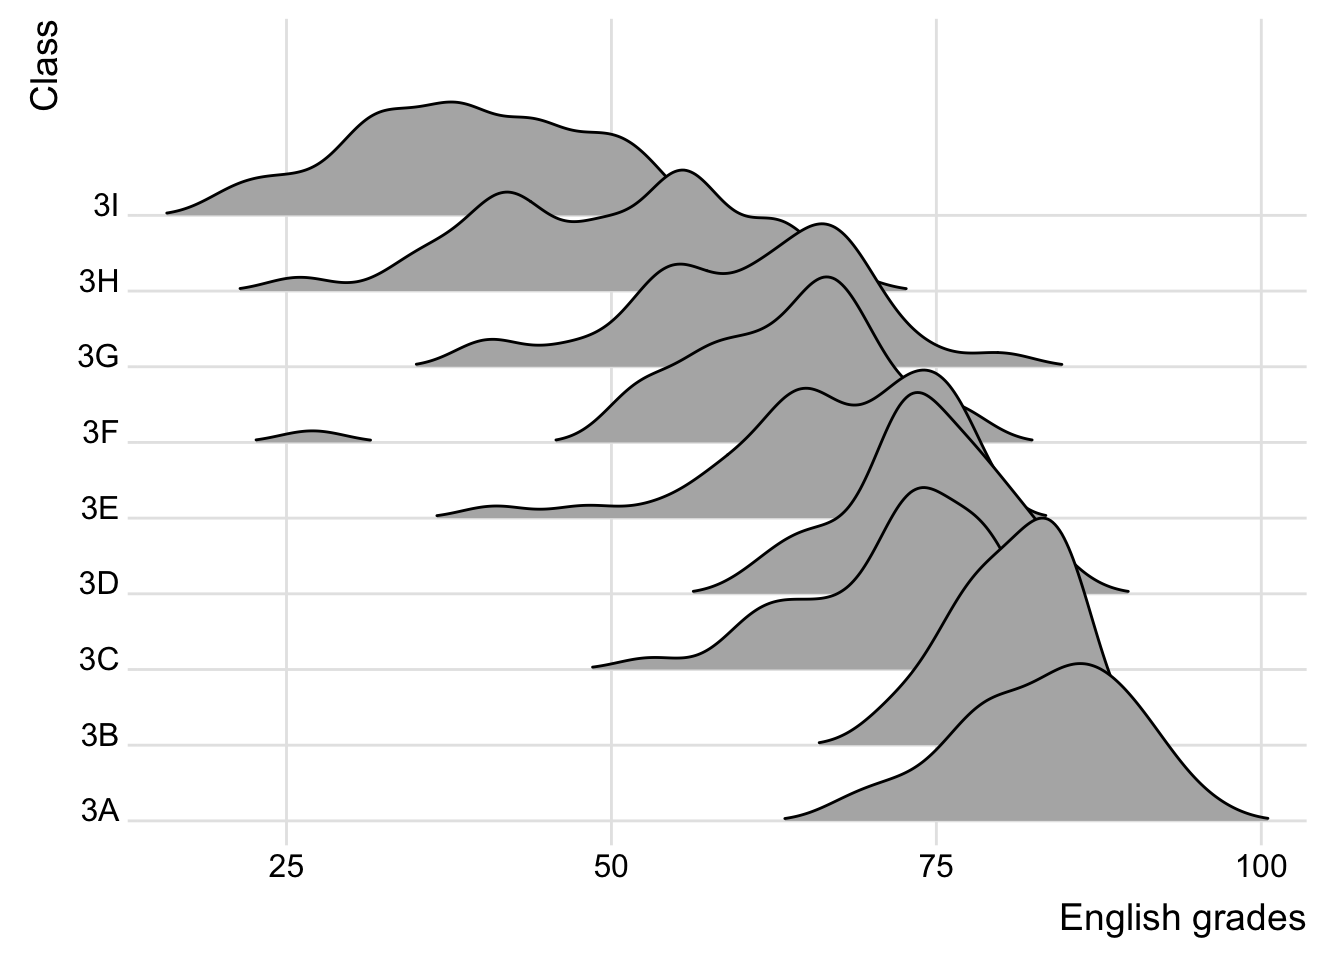
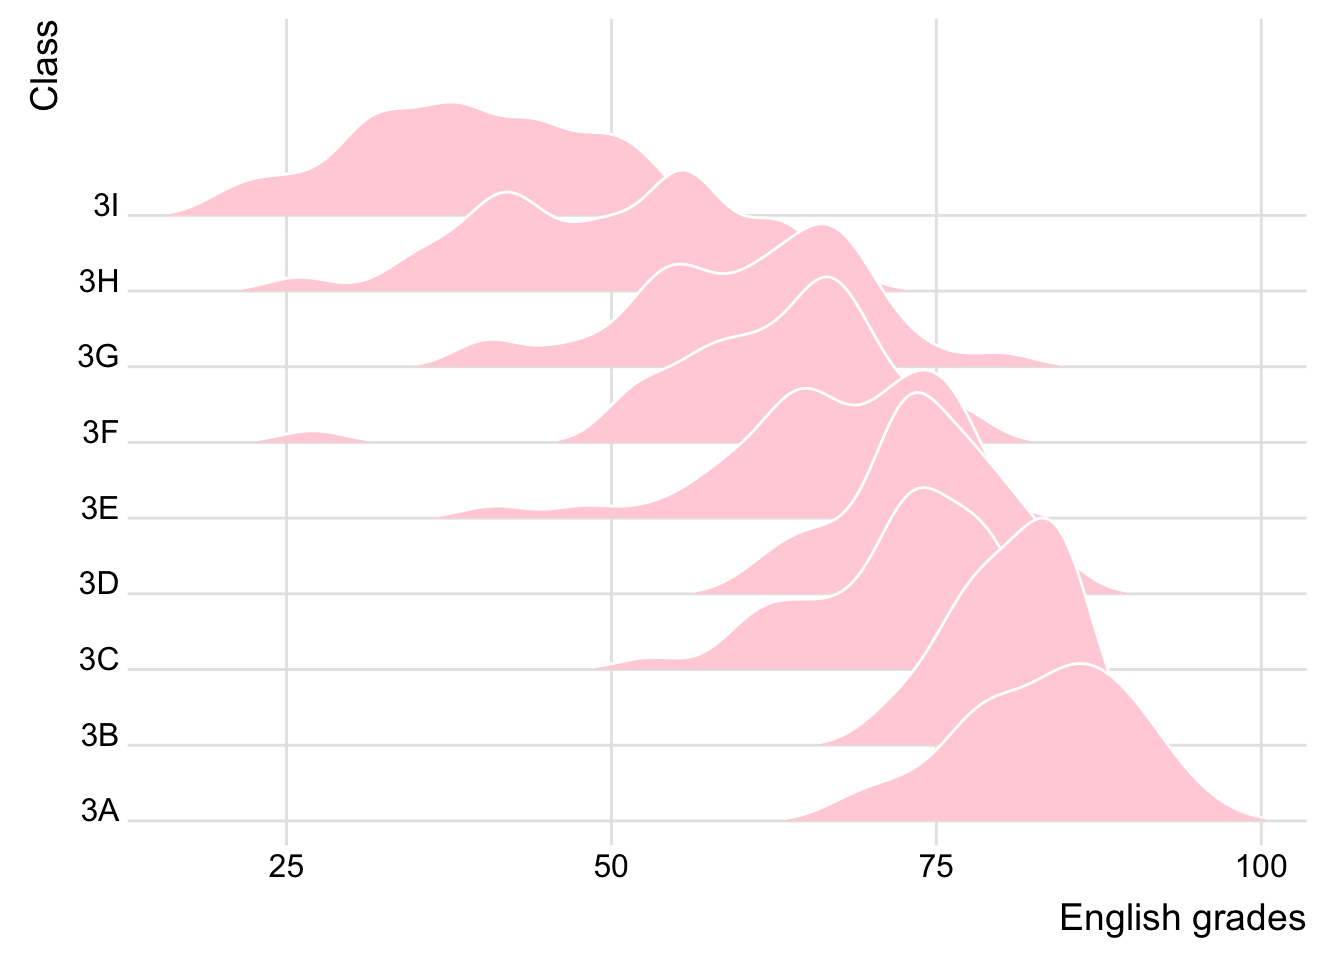
updates in-class.

Changed region(s): [[0.125, 0.0938, 0.9375, 0.875], [0.1875, 0.4375, 0.2812, 0.4688]]

diff --git a/_site/In-class_Ex/In-class_Ex04.html b/_site/In-class_Ex/In-class_Ex04.html
@@ -129,39 +129,39 @@ pre > code.sourceCode > span > a:first-child::before { text-decoration: underlin
     </a>
     <ul class="dropdown-menu" aria-labelledby="nav-menu-hands-on-exercise">    
         <li>
-    <a class="dropdown-item" href="../Hands-on_Ex/Hands-on_Ex00/Hands-on_Ex00.html">
+    <a class="dropdown-item" href="../Hands-on_Ex/Hands-on_Ex00/Hands-on_Ex00.amd">
  <span class="dropdown-text">Hands-on Exercise 0</span></a>
   </li>  
         <li>
-    <a class="dropdown-item" href="../Hands-on_Ex/Hands-on_Ex01/Hands-on_Ex01.html">
+    <a class="dropdown-item" href="../Hands-on_Ex/Hands-on_Ex01/Hands-on_Ex01.amd">
  <span class="dropdown-text">Hands-on Exercise 1</span></a>
   </li>  
         <li>
-    <a class="dropdown-item" href="../Hands-on_Ex/Hands-on_Ex02/Hands-on_Ex02.html">
+    <a class="dropdown-item" href="../Hands-on_Ex/Hands-on_Ex02/Hands-on_Ex02.amd">
  <span class="dropdown-text">Hands-on Exercise 2</span></a>
   </li>  
         <li>
-    <a class="dropdown-item" href="../Hands-on_Ex/Hands-on_Ex03/Hands-on_Ex03_1.html">
+    <a class="dropdown-item" href="../Hands-on_Ex/Hands-on_Ex03/Hands-on_Ex03_1.amd">
  <span class="dropdown-text">Hands-on Exercise 3-1</span></a>
   </li>  
         <li>
-    <a class="dropdown-item" href="../Hands-on_Ex/Hands-on_Ex03/Hands-on_Ex03_2.html">
+    <a class="dropdown-item" href="../Hands-on_Ex/Hands-on_Ex03/Hands-on_Ex03_2.amd">
  <span class="dropdown-text">Hands-on Exercise 3-2</span></a>
   </li>  
         <li>
-    <a class="dropdown-item" href="../Hands-on_Ex/Hands-on_Ex04/Hands-on_Ex04_1.html">
+    <a class="dropdown-item" href="../Hands-on_Ex/Hands-on_Ex04/Hands-on_Ex04_1.amd">
  <span class="dropdown-text">Hands-on Exercise 4-1</span></a>
   </li>  
         <li>
-    <a class="dropdown-item" href="../Hands-on_Ex/Hands-on_Ex04/Hands-on_Ex04_2.html">
+    <a class="dropdown-item" href="../Hands-on_Ex/Hands-on_Ex04/Hands-on_Ex04_2.amd">
  <span class="dropdown-text">Hands-on Exercise 4-2</span></a>
   </li>  
         <li>
-    <a class="dropdown-item" href="../Hands-on_Ex/Hands-on_Ex04/Hands-on_Ex04_3.html">
+    <a class="dropdown-item" href="../Hands-on_Ex/Hands-on_Ex04/Hands-on_Ex04_3.amd">
  <span class="dropdown-text">Hands-on Exercise 4-3</span></a>
   </li>  
         <li>
-    <a class="dropdown-item" href="../Hands-on_Ex/Hands-on_Ex04/Hands-on_Ex04_4.html">
+    <a class="dropdown-item" href="../Hands-on_Ex/Hands-on_Ex04/Hands-on_Ex04_4.amd">
  <span class="dropdown-text">Hands-on Exercise 4-4</span></a>
   </li>  
     </ul>
@@ -172,16 +172,20 @@ pre > code.sourceCode > span > a:first-child::before { text-decoration: underlin
     </a>
     <ul class="dropdown-menu" aria-labelledby="nav-menu-in-class-exercise">    
         <li>
-    <a class="dropdown-item" href="../In-class_Ex/In-class_Ex01.html">
+    <a class="dropdown-item" href="../In-class_Ex/In-class_Ex01.amd">
  <span class="dropdown-text">In-class Exercise 1</span></a>
   </li>  
         <li>
-    <a class="dropdown-item" href="../In-class_Ex/In-class_Ex02.html">
+    <a class="dropdown-item" href="../In-class_Ex/In-class_Ex02.amd">
  <span class="dropdown-text">In-class Exercise 2</span></a>
   </li>  
         <li>
-    <a class="dropdown-item" href="../In-class_Ex/In-class_Ex03.html">
+    <a class="dropdown-item" href="../In-class_Ex/In-class_Ex03.amd">
  <span class="dropdown-text">In-class Exercise 3</span></a>
+  </li>  
+        <li>
+    <a class="dropdown-item" href="../In-class_Ex/In-class_Ex04.amd">
+ <span class="dropdown-text">In-class Exercise 4</span></a>
   </li>  
     </ul>
   </li>
@@ -191,7 +195,7 @@ pre > code.sourceCode > span > a:first-child::before { text-decoration: underlin
     </a>
     <ul class="dropdown-menu" aria-labelledby="nav-menu-take-home-exercise">    
         <li>
-    <a class="dropdown-item" href="../Take-home_Ex/Take-home_Ex01.html">
+    <a class="dropdown-item" href="../Take-home_Ex/Take-home_Ex01.amd">
  <span class="dropdown-text">Take-home Exercise 1</span></a>
   </li>  
         <li class="dropdown-header">Take-home Exercise 2</li>
@@ -202,11 +206,11 @@ pre > code.sourceCode > span > a:first-child::before { text-decoration: underlin
             <ul class="navbar-nav navbar-nav-scroll ms-auto">
   <li class="nav-item">
     <a class="nav-link active" href="../index.html" aria-current="page"> 
-<span class="menu-text"><img src="../images/house.svg" class="img-fluid"></span></a>
+<span class="menu-text"><img src="../images/home.svg" class="img-fluid"></span></a>
   </li>  
   <li class="nav-item">
     <a class="nav-link" href="../about.html"> 
-<span class="menu-text"><img src="../images/person.svg" class="img-fluid"></span></a>
+<span class="menu-text"><img src="../images/paw2.svg" class="img-fluid"></span></a>
   </li>  
 </ul>
           </div> <!-- /navcollapse -->
@@ -408,8 +412,8 @@ pre > code.sourceCode > span > a:first-child::before { text-decoration: underlin
 
 
 <div class="cell">
-<div class="sourceCode cell-code" id="cb1"><pre class="sourceCode r code-with-copy"><code class="sourceCode r"><span id="cb1-1"><a href="#cb1-1" aria-hidden="true" tabindex="-1"></a>pacman<span class="sc">:::</span><span class="fu">p_load</span>(haven, SmartEDA, tidyverse,</span>
-<span id="cb1-2"><a href="#cb1-2" aria-hidden="true" tabindex="-1"></a>                tidymodels, ggridges)</span></code><button title="Copy to Clipboard" class="code-copy-button"><i class="bi"></i></button></pre></div>
+<div class="sourceCode cell-code" id="cb1"><pre class="sourceCode r code-with-copy"><code class="sourceCode r"><span id="cb1-1"><a href="#cb1-1" aria-hidden="true" tabindex="-1"></a>pacman<span class="sc">:::</span><span class="fu">p_load</span>(haven, SmartEDA, tidyverse, ggdist,</span>
+<span id="cb1-2"><a href="#cb1-2" aria-hidden="true" tabindex="-1"></a>                tidymodels, ggridges, colorspace, ggthemes)</span></code><button title="Copy to Clipboard" class="code-copy-button"><i class="bi"></i></button></pre></div>
 </div>
 <div class="cell">
 <div class="sourceCode cell-code" id="cb2"><pre class="sourceCode r code-with-copy"><code class="sourceCode r"><span id="cb2-1"><a href="#cb2-1" aria-hidden="true" tabindex="-1"></a>exam_data <span class="ot">&lt;-</span> <span class="fu">read_csv</span>(<span class="st">"data/Exam_data.csv"</span>)</span></code><button title="Copy to Clipboard" class="code-copy-button"><i class="bi"></i></button></pre></div>
@@ -419,7 +423,7 @@ pre > code.sourceCode > span > a:first-child::before { text-decoration: underlin
 <span id="cb3-2"><a href="#cb3-2" aria-hidden="true" tabindex="-1"></a>       <span class="fu">aes</span>(<span class="at">x =</span> ENGLISH,</span>
 <span id="cb3-3"><a href="#cb3-3" aria-hidden="true" tabindex="-1"></a>           <span class="at">y =</span> CLASS)) <span class="sc">+</span></span>
 <span id="cb3-4"><a href="#cb3-4" aria-hidden="true" tabindex="-1"></a>  <span class="fu">geom_boxplot</span>() <span class="sc">+</span></span>
-<span id="cb3-5"><a href="#cb3-5" aria-hidden="true" tabindex="-1"></a>  <span class="fu">labs</span>(<span class="at">title =</span> <span class="st">"Boxplot showing distribution"</span>) </span></code><button title="Copy to Clipboard" class="code-copy-button"><i class="bi"></i></button></pre></div>
+<span id="cb3-5"><a href="#cb3-5" aria-hidden="true" tabindex="-1"></a>  <span class="fu">labs</span>(<span class="at">title =</span> <span class="st">"Boxplot showing distribution"</span>)</span></code><button title="Copy to Clipboard" class="code-copy-button"><i class="bi"></i></button></pre></div>
 <div class="cell-output-display">
 <div>
 <figure class="figure">
@@ -432,21 +436,45 @@ pre > code.sourceCode > span > a:first-child::before { text-decoration: underlin
 <div class="sourceCode cell-code" id="cb4"><pre class="sourceCode r code-with-copy"><code class="sourceCode r"><span id="cb4-1"><a href="#cb4-1" aria-hidden="true" tabindex="-1"></a><span class="fu">ggplot</span>(exam_data,</span>
 <span id="cb4-2"><a href="#cb4-2" aria-hidden="true" tabindex="-1"></a>       <span class="fu">aes</span>(<span class="at">x =</span> ENGLISH,</span>
 <span id="cb4-3"><a href="#cb4-3" aria-hidden="true" tabindex="-1"></a>           <span class="at">y =</span> CLASS)) <span class="sc">+</span></span>
-<span id="cb4-4"><a href="#cb4-4" aria-hidden="true" tabindex="-1"></a>  <span class="fu">geom_density_ridges</span>(</span>
-<span id="cb4-5"><a href="#cb4-5" aria-hidden="true" tabindex="-1"></a>    <span class="at">scale =</span> <span class="dv">3</span>,</span>
-<span id="cb4-6"><a href="#cb4-6" aria-hidden="true" tabindex="-1"></a>    <span class="at">rel_min_height =</span> <span class="fl">0.01</span>,</span>
-<span id="cb4-7"><a href="#cb4-7" aria-hidden="true" tabindex="-1"></a>    <span class="at">bandwidth =</span> <span class="fl">2.5</span>,</span>
-<span id="cb4-8"><a href="#cb4-8" aria-hidden="true" tabindex="-1"></a>  ) <span class="sc">+</span></span>
-<span id="cb4-9"><a href="#cb4-9" aria-hidden="true" tabindex="-1"></a>  <span class="fu">scale_x_continuous</span>(</span>
-<span id="cb4-10"><a href="#cb4-10" aria-hidden="true" tabindex="-1"></a>    <span class="at">name =</span> <span class="st">"English grades"</span>,</span>
-<span id="cb4-11"><a href="#cb4-11" aria-hidden="true" tabindex="-1"></a>    <span class="at">expand =</span> <span class="fu">c</span>(<span class="dv">0</span>,<span class="dv">0</span>),</span>
-<span id="cb4-12"><a href="#cb4-12" aria-hidden="true" tabindex="-1"></a>  ) <span class="sc">+</span></span>
-<span id="cb4-13"><a href="#cb4-13" aria-hidden="true" tabindex="-1"></a>  <span class="fu">scale_y_discrete</span>(<span class="at">name =</span> <span class="st">"Class"</span>, <span class="at">expand =</span> <span class="fu">expansion</span>(<span class="at">add=</span><span class="fu">c</span>(<span class="fl">0.2</span>, <span class="fl">2.6</span>))) <span class="sc">+</span></span>
-<span id="cb4-14"><a href="#cb4-14" aria-hidden="true" tabindex="-1"></a>  <span class="fu">theme_ridges</span>()</span></code><button title="Copy to Clipboard" class="code-copy-button"><i class="bi"></i></button></pre></div>
+<span id="cb4-4"><a href="#cb4-4" aria-hidden="true" tabindex="-1"></a>  <span class="co">#create ridgeline</span></span>
+<span id="cb4-5"><a href="#cb4-5" aria-hidden="true" tabindex="-1"></a>  <span class="fu">geom_density_ridges</span>( </span>
+<span id="cb4-6"><a href="#cb4-6" aria-hidden="true" tabindex="-1"></a>    <span class="at">scale =</span> <span class="dv">3</span>,</span>
+<span id="cb4-7"><a href="#cb4-7" aria-hidden="true" tabindex="-1"></a>    <span class="at">rel_min_height =</span> <span class="fl">0.01</span>,</span>
+<span id="cb4-8"><a href="#cb4-8" aria-hidden="true" tabindex="-1"></a>    <span class="at">bandwidth =</span> <span class="fl">2.5</span>,</span>
+<span id="cb4-9"><a href="#cb4-9" aria-hidden="true" tabindex="-1"></a>    <span class="at">fill =</span> <span class="fu">lighten</span>(<span class="st">"pink"</span>, .<span class="dv">3</span>),</span>
+<span id="cb4-10"><a href="#cb4-10" aria-hidden="true" tabindex="-1"></a>    <span class="at">color =</span> <span class="st">"white"</span></span>
+<span id="cb4-11"><a href="#cb4-11" aria-hidden="true" tabindex="-1"></a>  ) <span class="sc">+</span></span>
+<span id="cb4-12"><a href="#cb4-12" aria-hidden="true" tabindex="-1"></a>  <span class="fu">scale_x_continuous</span>(</span>
+<span id="cb4-13"><a href="#cb4-13" aria-hidden="true" tabindex="-1"></a>    <span class="at">name =</span> <span class="st">"English grades"</span>,</span>
+<span id="cb4-14"><a href="#cb4-14" aria-hidden="true" tabindex="-1"></a>    <span class="at">expand =</span> <span class="fu">c</span>(<span class="dv">0</span>,<span class="dv">0</span>),</span>
+<span id="cb4-15"><a href="#cb4-15" aria-hidden="true" tabindex="-1"></a>  ) <span class="sc">+</span></span>
+<span id="cb4-16"><a href="#cb4-16" aria-hidden="true" tabindex="-1"></a>  <span class="fu">scale_y_discrete</span>(<span class="at">name =</span> <span class="st">"Class"</span>, <span class="at">expand =</span> <span class="fu">expansion</span>(<span class="at">add=</span><span class="fu">c</span>(<span class="fl">0.2</span>, <span class="fl">2.6</span>))) <span class="sc">+</span></span>
+<span id="cb4-17"><a href="#cb4-17" aria-hidden="true" tabindex="-1"></a>  <span class="fu">theme_ridges</span>()</span></code><button title="Copy to Clipboard" class="code-copy-button"><i class="bi"></i></button></pre></div>
 <div class="cell-output-display">
 <div>
 <figure class="figure">
 <p><img src="In-class_Ex04_files/figure-html/unnamed-chunk-4-1.png" class="img-fluid figure-img" width="672"></p>
+</figure>
+</div>
+</div>
+</div>
+<div class="cell">
+<div class="sourceCode cell-code" id="cb5"><pre class="sourceCode r code-with-copy"><code class="sourceCode r"><span id="cb5-1"><a href="#cb5-1" aria-hidden="true" tabindex="-1"></a><span class="fu">ggplot</span>(exam_data,</span>
+<span id="cb5-2"><a href="#cb5-2" aria-hidden="true" tabindex="-1"></a>       <span class="fu">aes</span>(<span class="at">x =</span> ENGLISH, </span>
+<span id="cb5-3"><a href="#cb5-3" aria-hidden="true" tabindex="-1"></a>           <span class="at">y =</span> CLASS, </span>
+<span id="cb5-4"><a href="#cb5-4" aria-hidden="true" tabindex="-1"></a>           <span class="at">fill =</span> <span class="fu">factor</span>(<span class="fu">stat</span>(quantile))</span>
+<span id="cb5-5"><a href="#cb5-5" aria-hidden="true" tabindex="-1"></a>           )) <span class="sc">+</span></span>
+<span id="cb5-6"><a href="#cb5-6" aria-hidden="true" tabindex="-1"></a>  <span class="fu">stat_density_ridges</span>(</span>
+<span id="cb5-7"><a href="#cb5-7" aria-hidden="true" tabindex="-1"></a>    <span class="at">geom =</span> <span class="st">"density_ridges_gradient"</span>,</span>
+<span id="cb5-8"><a href="#cb5-8" aria-hidden="true" tabindex="-1"></a>    <span class="at">calc_ecdf =</span> <span class="cn">TRUE</span>, </span>
+<span id="cb5-9"><a href="#cb5-9" aria-hidden="true" tabindex="-1"></a>    <span class="at">quantiles =</span> <span class="dv">4</span>,</span>
+<span id="cb5-10"><a href="#cb5-10" aria-hidden="true" tabindex="-1"></a>    <span class="at">quantile_lines =</span> <span class="cn">TRUE</span>) <span class="sc">+</span></span>
+<span id="cb5-11"><a href="#cb5-11" aria-hidden="true" tabindex="-1"></a>  <span class="fu">scale_fill_viridis_d</span>(<span class="at">name =</span> <span class="st">"Quartiles"</span>) <span class="sc">+</span></span>
+<span id="cb5-12"><a href="#cb5-12" aria-hidden="true" tabindex="-1"></a>  <span class="fu">theme_ridges</span>()</span></code><button title="Copy to Clipboard" class="code-copy-button"><i class="bi"></i></button></pre></div>
+<div class="cell-output-display">
+<div>
+<figure class="figure">
+<p><img src="In-class_Ex04_files/figure-html/unnamed-chunk-5-1.png" class="img-fluid figure-img" width="672"></p>
 </figure>
 </div>
 </div>

diff --git a/_site/Hands-on_Ex/Hands-on_Ex04/Hands-on_Ex04_2.html b/_site/Hands-on_Ex/Hands-on_Ex04/Hands-on_Ex04_2.html
@@ -158,39 +158,39 @@ window.Quarto = {
     </a>
     <ul class="dropdown-menu" aria-labelledby="nav-menu-hands-on-exercise">    
         <li>
-    <a class="dropdown-item" href="../../Hands-on_Ex/Hands-on_Ex00/Hands-on_Ex00.html">
+    <a class="dropdown-item" href="../../Hands-on_Ex/Hands-on_Ex00/Hands-on_Ex00.amd">
  <span class="dropdown-text">Hands-on Exercise 0</span></a>
   </li>  
         <li>
-    <a class="dropdown-item" href="../../Hands-on_Ex/Hands-on_Ex01/Hands-on_Ex01.html">
+    <a class="dropdown-item" href="../../Hands-on_Ex/Hands-on_Ex01/Hands-on_Ex01.amd">
  <span class="dropdown-text">Hands-on Exercise 1</span></a>
   </li>  
         <li>
-    <a class="dropdown-item" href="../../Hands-on_Ex/Hands-on_Ex02/Hands-on_Ex02.html">
+    <a class="dropdown-item" href="../../Hands-on_Ex/Hands-on_Ex02/Hands-on_Ex02.amd">
  <span class="dropdown-text">Hands-on Exercise 2</span></a>
   </li>  
         <li>
-    <a class="dropdown-item" href="../../Hands-on_Ex/Hands-on_Ex03/Hands-on_Ex03_1.html">
+    <a class="dropdown-item" href="../../Hands-on_Ex/Hands-on_Ex03/Hands-on_Ex03_1.amd">
  <span class="dropdown-text">Hands-on Exercise 3-1</span></a>
   </li>  
         <li>
-    <a class="dropdown-item" href="../../Hands-on_Ex/Hands-on_Ex03/Hands-on_Ex03_2.html">
+    <a class="dropdown-item" href="../../Hands-on_Ex/Hands-on_Ex03/Hands-on_Ex03_2.amd">
  <span class="dropdown-text">Hands-on Exercise 3-2</span></a>
   </li>  
         <li>
-    <a class="dropdown-item" href="../../Hands-on_Ex/Hands-on_Ex04/Hands-on_Ex04_1.html">
+    <a class="dropdown-item" href="../../Hands-on_Ex/Hands-on_Ex04/Hands-on_Ex04_1.amd">
  <span class="dropdown-text">Hands-on Exercise 4-1</span></a>
   </li>  
         <li>
-    <a class="dropdown-item" href="../../Hands-on_Ex/Hands-on_Ex04/Hands-on_Ex04_2.html">
+    <a class="dropdown-item" href="../../Hands-on_Ex/Hands-on_Ex04/Hands-on_Ex04_2.amd">
  <span class="dropdown-text">Hands-on Exercise 4-2</span></a>
   </li>  
         <li>
-    <a class="dropdown-item" href="../../Hands-on_Ex/Hands-on_Ex04/Hands-on_Ex04_3.html">
+    <a class="dropdown-item" href="../../Hands-on_Ex/Hands-on_Ex04/Hands-on_Ex04_3.amd">
  <span class="dropdown-text">Hands-on Exercise 4-3</span></a>
   </li>  
         <li>
-    <a class="dropdown-item" href="../../Hands-on_Ex/Hands-on_Ex04/Hands-on_Ex04_4.html">
+    <a class="dropdown-item" href="../../Hands-on_Ex/Hands-on_Ex04/Hands-on_Ex04_4.amd">
  <span class="dropdown-text">Hands-on Exercise 4-4</span></a>
   </li>  
     </ul>
@@ -201,16 +201,20 @@ window.Quarto = {
     </a>
     <ul class="dropdown-menu" aria-labelledby="nav-menu-in-class-exercise">    
         <li>
-    <a class="dropdown-item" href="../../In-class_Ex/In-class_Ex01.html">
+    <a class="dropdown-item" href="../../In-class_Ex/In-class_Ex01.amd">
  <span class="dropdown-text">In-class Exercise 1</span></a>
   </li>  
         <li>
-    <a class="dropdown-item" href="../../In-class_Ex/In-class_Ex02.html">
+    <a class="dropdown-item" href="../../In-class_Ex/In-class_Ex02.amd">
  <span class="dropdown-text">In-class Exercise 2</span></a>
   </li>  
         <li>
-    <a class="dropdown-item" href="../../In-class_Ex/In-class_Ex03.html">
+    <a class="dropdown-item" href="../../In-class_Ex/In-class_Ex03.amd">
  <span class="dropdown-text">In-class Exercise 3</span></a>
+  </li>  
+        <li>
+    <a class="dropdown-item" href="../../In-class_Ex/In-class_Ex04.amd">
+ <span class="dropdown-text">In-class Exercise 4</span></a>
   </li>  
     </ul>
   </li>
@@ -220,7 +224,7 @@ window.Quarto = {
     </a>
     <ul class="dropdown-menu" aria-labelledby="nav-menu-take-home-exercise">    
         <li>
-    <a class="dropdown-item" href="../../Take-home_Ex/Take-home_Ex01.html">
+    <a class="dropdown-item" href="../../Take-home_Ex/Take-home_Ex01.amd">
  <span class="dropdown-text">Take-home Exercise 1</span></a>
   </li>  
         <li class="dropdown-header">Take-home Exercise 2</li>
@@ -231,11 +235,11 @@ window.Quarto = {
             <ul class="navbar-nav navbar-nav-scroll ms-auto">
   <li class="nav-item">
     <a class="nav-link active" href="../../index.html" aria-current="page"> 
-<span class="menu-text"><img src="../../images/house.svg" class="img-fluid"></span></a>
+<span class="menu-text"><img src="../../images/home.svg" class="img-fluid"></span></a>
   </li>  
   <li class="nav-item">
     <a class="nav-link" href="../../about.html"> 
-<span class="menu-text"><img src="../../images/person.svg" class="img-fluid"></span></a>
+<span class="menu-text"><img src="../../images/paw2.svg" class="img-fluid"></span></a>
   </li>  
 </ul>
           </div> <!-- /navcollapse -->
